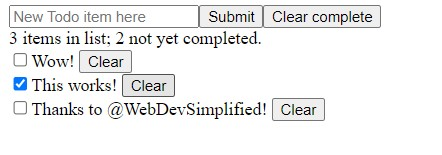
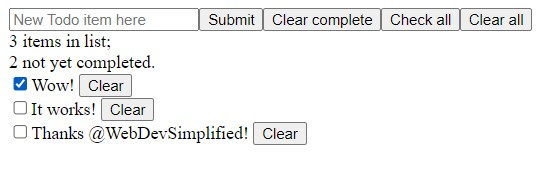
Add new toggle all button

Changed region(s): [[0.0, 0.3097, 0.7353, 0.8516], [0.0, 0.0258, 1.0, 0.3097], [0.6176, 0.6194, 0.7353, 0.6452]]

diff --git a/src/TodoList.js b/src/TodoList.js
@@ -9,10 +9,19 @@ export default function TodoList() {
     const stored_todos = localStorage.getItem(LOCAL_STORAGE_KEY);
     return JSON.parse(stored_todos) || [];
   });
+  const [toggleState, setToggleState] = useState(false);
+
   const newTodoName = useRef();
 
   useEffect(() => {
     localStorage.setItem(LOCAL_STORAGE_KEY, JSON.stringify(todos));
+    if (
+      todos.length === 0 ||
+      todos.length === todos.filter((todo) => todo.complete).length
+    )
+      setToggleState(false);
+    else if (todos.filter((todo) => todo.complete).length === 0)
+      setToggleState(true);
   }, [todos]);
 
   function enterKey(e) {
@@ -54,6 +63,13 @@ export default function TodoList() {
     setTodos([]);
   }
 
+  function toggleAll() {
+    const newTodos = [...todos];
+    newTodos.forEach((todo) => (todo.complete = toggleState));
+    //setToggleState(!toggleState);
+    setTodos(newTodos);
+  }
+
   return (
     <>
       <input
@@ -65,9 +81,12 @@ export default function TodoList() {
       />
       <button onClick={addTodo}>Submit</button>
       <button onClick={clearComplete}>Clear complete</button>
+      <button onClick={toggleAll}>
+        {!toggleState ? "Uncheck" : "Check"} all
+      </button>
       <button onClick={clearAll}>Clear all</button>
+      <div>{todos.length} items in list;</div>
       <div>
-        {todos.length} items in list;{" "}
         {todos.filter((todo) => !todo.complete).length} not yet completed.
       </div>
       {todos.map((todo) => (

diff --git a/README.md b/README.md
@@ -1,8 +1,11 @@
 # Generic React todo app
 
+This react app is based on <a href="https://www.youtube.com/@WebDevSimplified">WebDevSimplified</a>'s <a href="https://www.youtube.com/watch?v=hQAHSlTtcmY">React crash course</a>.
+
 Supports adding an item, checking an item, clearing an item, and clearing all checked items.
+Check / Uncheck all button dynamically checks whether items are completed.
 Display number of items in the list and number of items not checked.
 You can use the "enter" key to add an item instead of clicking on the `submit` button.
-Added items to stored in localStorage.
+Added items are stored in localStorage.
 
 ![](./Screenshot.jpg)
